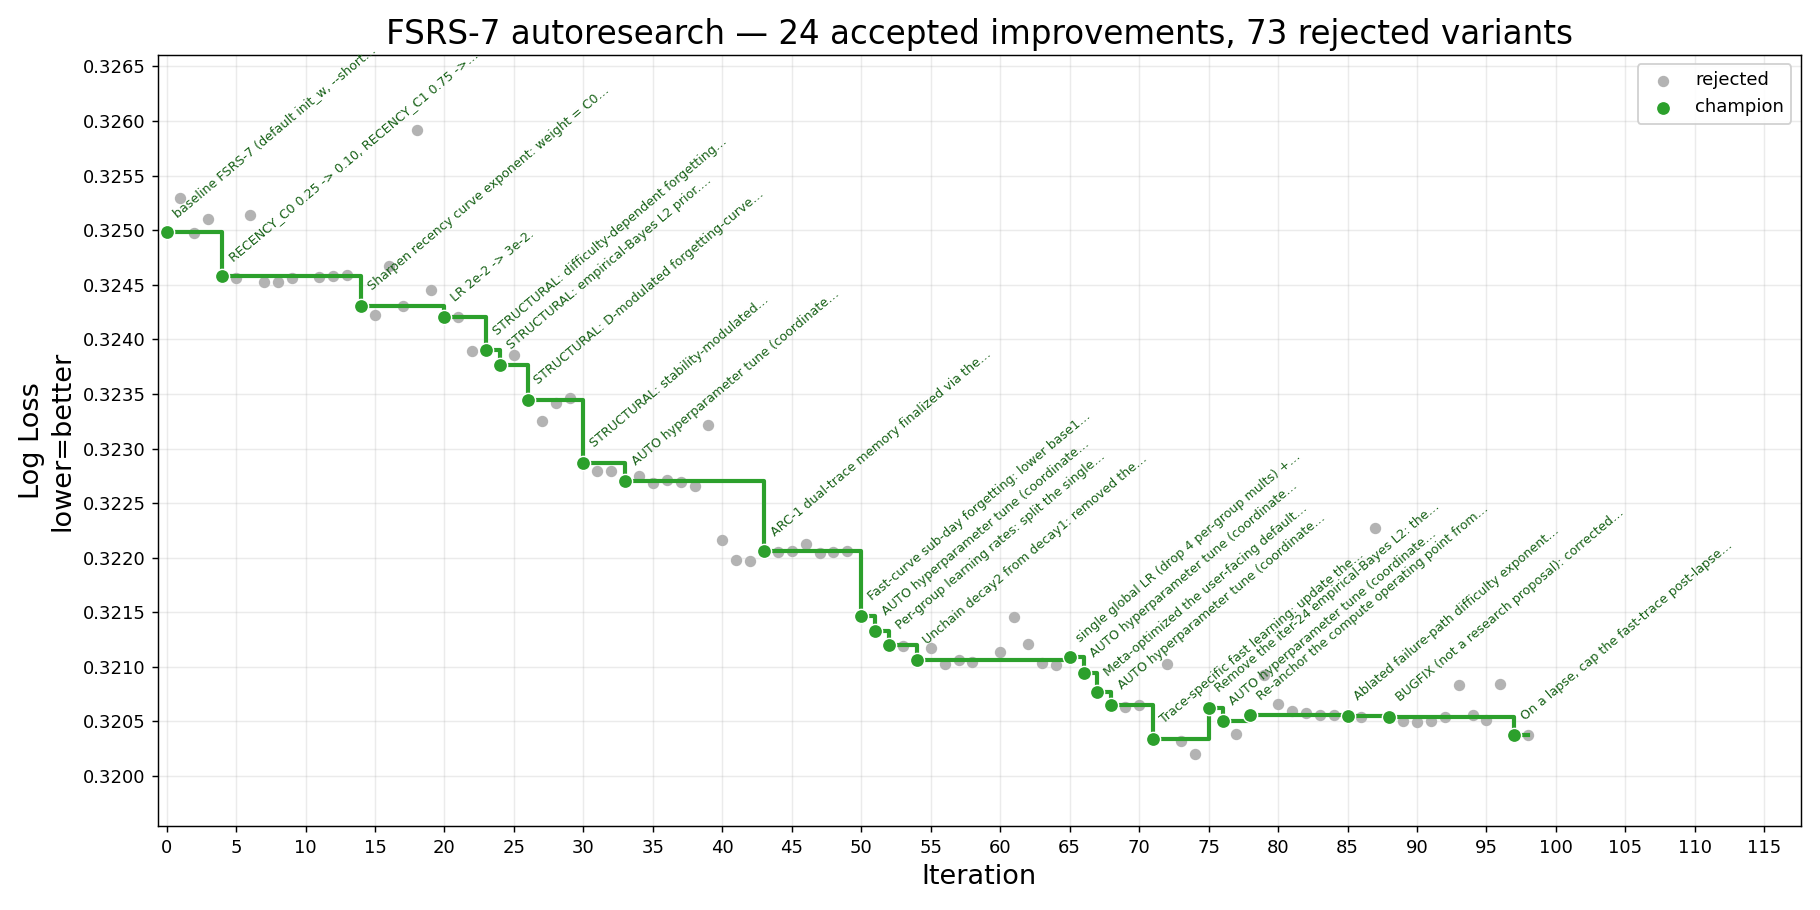
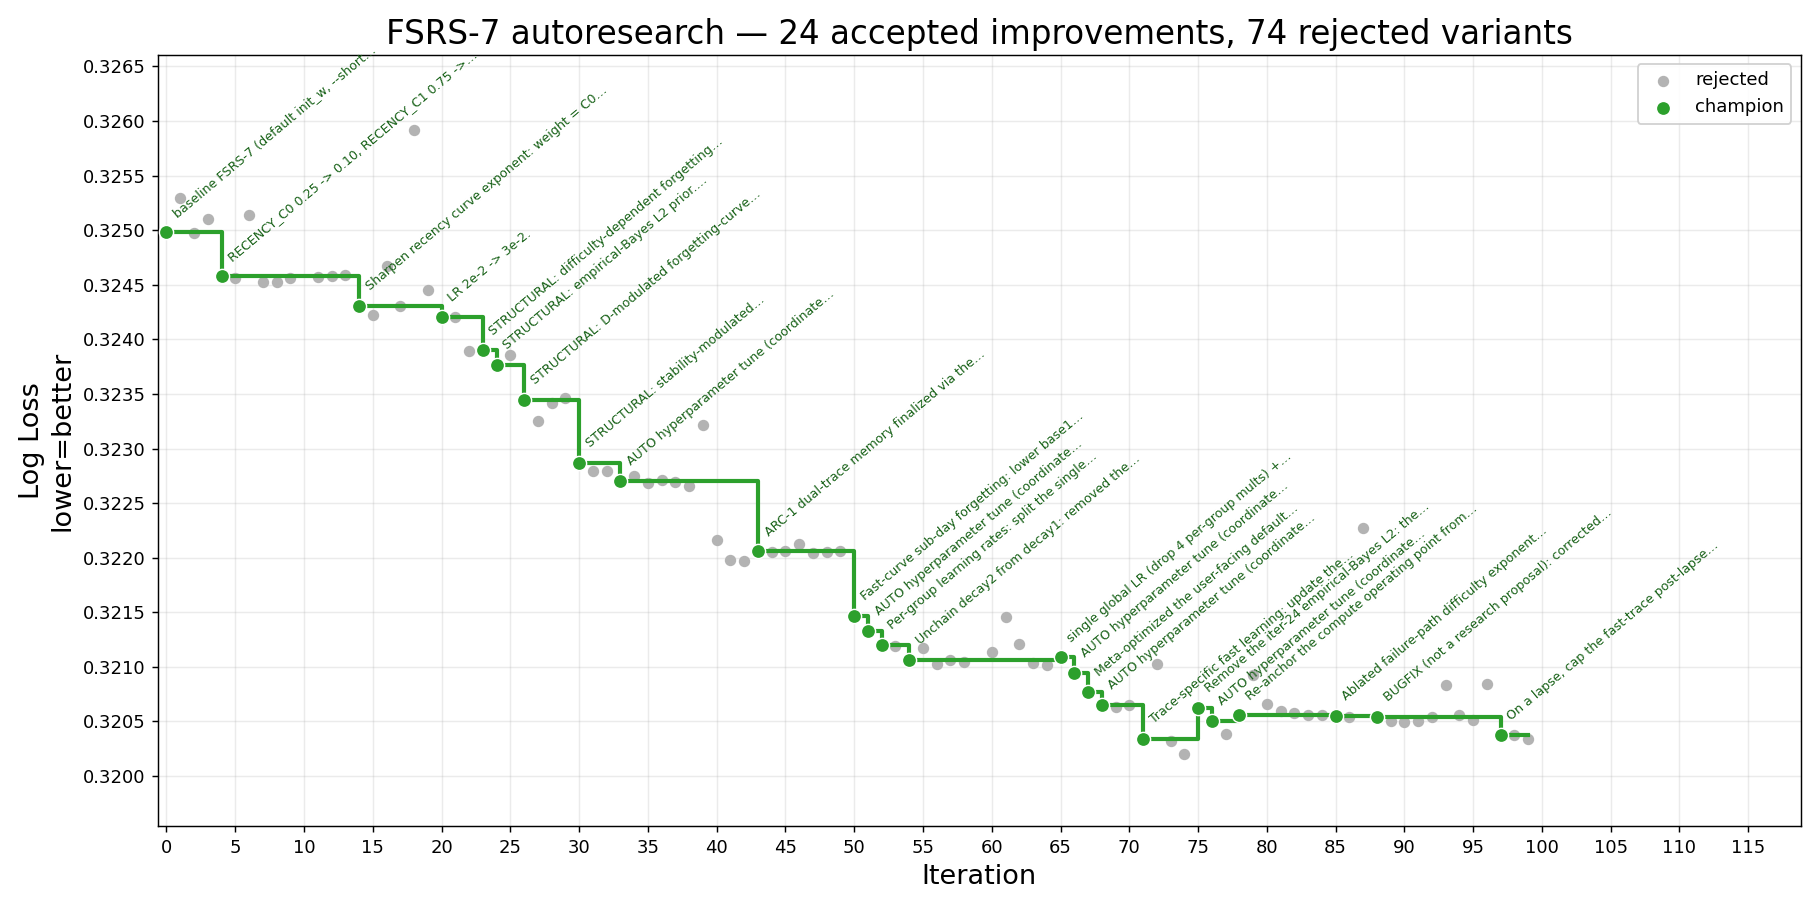
iter 99 (rejected): post-lapse fast cap 0.8->0.5 near-miss +3.28e-5 < 0.0001. Relearning IS more fragile (direction confirmed, Again -0.00016) but iter-97's 0.8 captured the bulk; residual sub-threshold. Champion stays iter-97

diff --git a/result/history.md b/result/history.md
@@ -1,6 +1,6 @@
 # FSRS-7 autoresearch — iteration history
 
-_98 record(s). Generated from `history.jsonl` — do not edit by hand._
+_99 record(s). Generated from `history.jsonl` — do not edit by hand._
 
 | # | Time (UTC) | Thresh. | LL before | LL after | Δ LL | Cx before | Cx after | Δ Cx % | Status | Summary |
 |--:|---|---:|---:|---:|---:|---:|---:|---:|---|---|
@@ -102,3 +102,4 @@ _98 record(s). Generated from `history.jsonl` — do not edit by hand._
 | 96 | 2026-06-04T03:17:30 | 0.0001 | 0.32054 | 0.32084 | -0.00030 | 16,804 | 16,815 | +0.07% | rejected | Steepened D->S coupling curvature in s_inc: (11-d) -> 5*((11-d)/5)^1.3 (level-neutral at d=6, sharpens hard/easy tails). |
 | 97 | 2026-06-04T03:23:44 | 0.0001 | 0.32054 | 0.32037 | +0.00017 | 16,804 | 16,865 | +0.36% | accepted | On a lapse, cap the fast-trace post-lapse stability at 0.8*post-lapse slow stability (restoring fast<slow invariant, relearn-from-scratch). |
 | 98 | 2026-06-04T03:56:42 | 0.0001 | 0.32038 | 0.32037 | +0.00000 | 16,865 | 16,865 | +0.00% | rejected | AUTO hyperparameter tune (coordinate descent over training hyperparameters (LR/betas/L2/recency C0+EXP)): best candidate PENALTY_W_L2 0.3333->0.2222. |
+| 99 | 2026-06-04T04:02:40 | 0.0001 | 0.32037 | 0.32034 | +0.00003 | 16,865 | 16,865 | +0.00% | rejected | Lowered post-lapse fast-trace cap fraction 0.8->0.5 (relearning treated as more fragile than fresh learning). |
